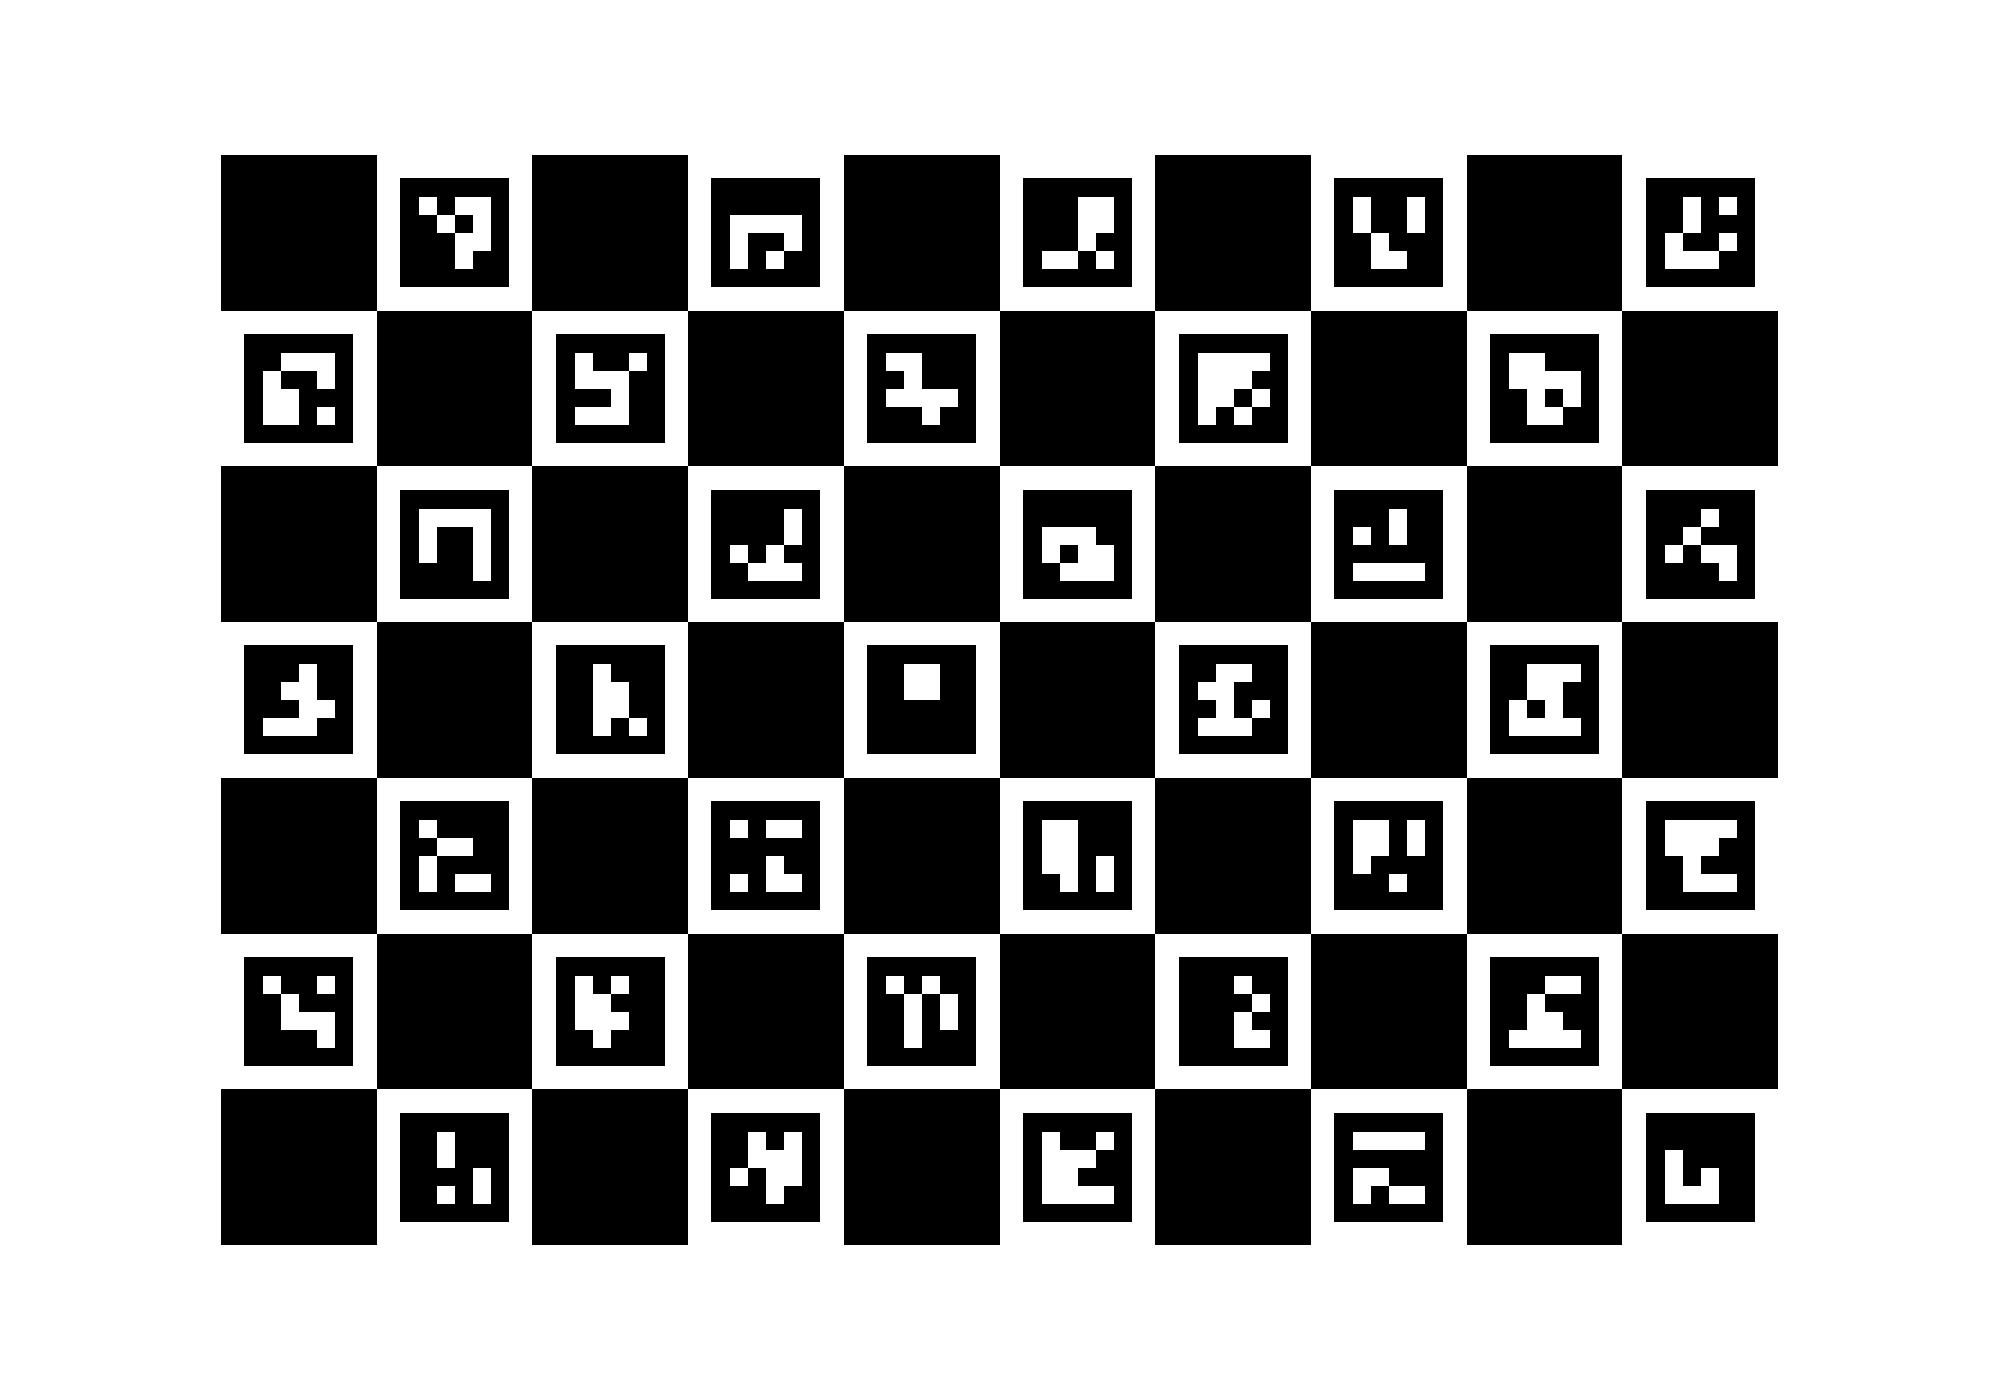
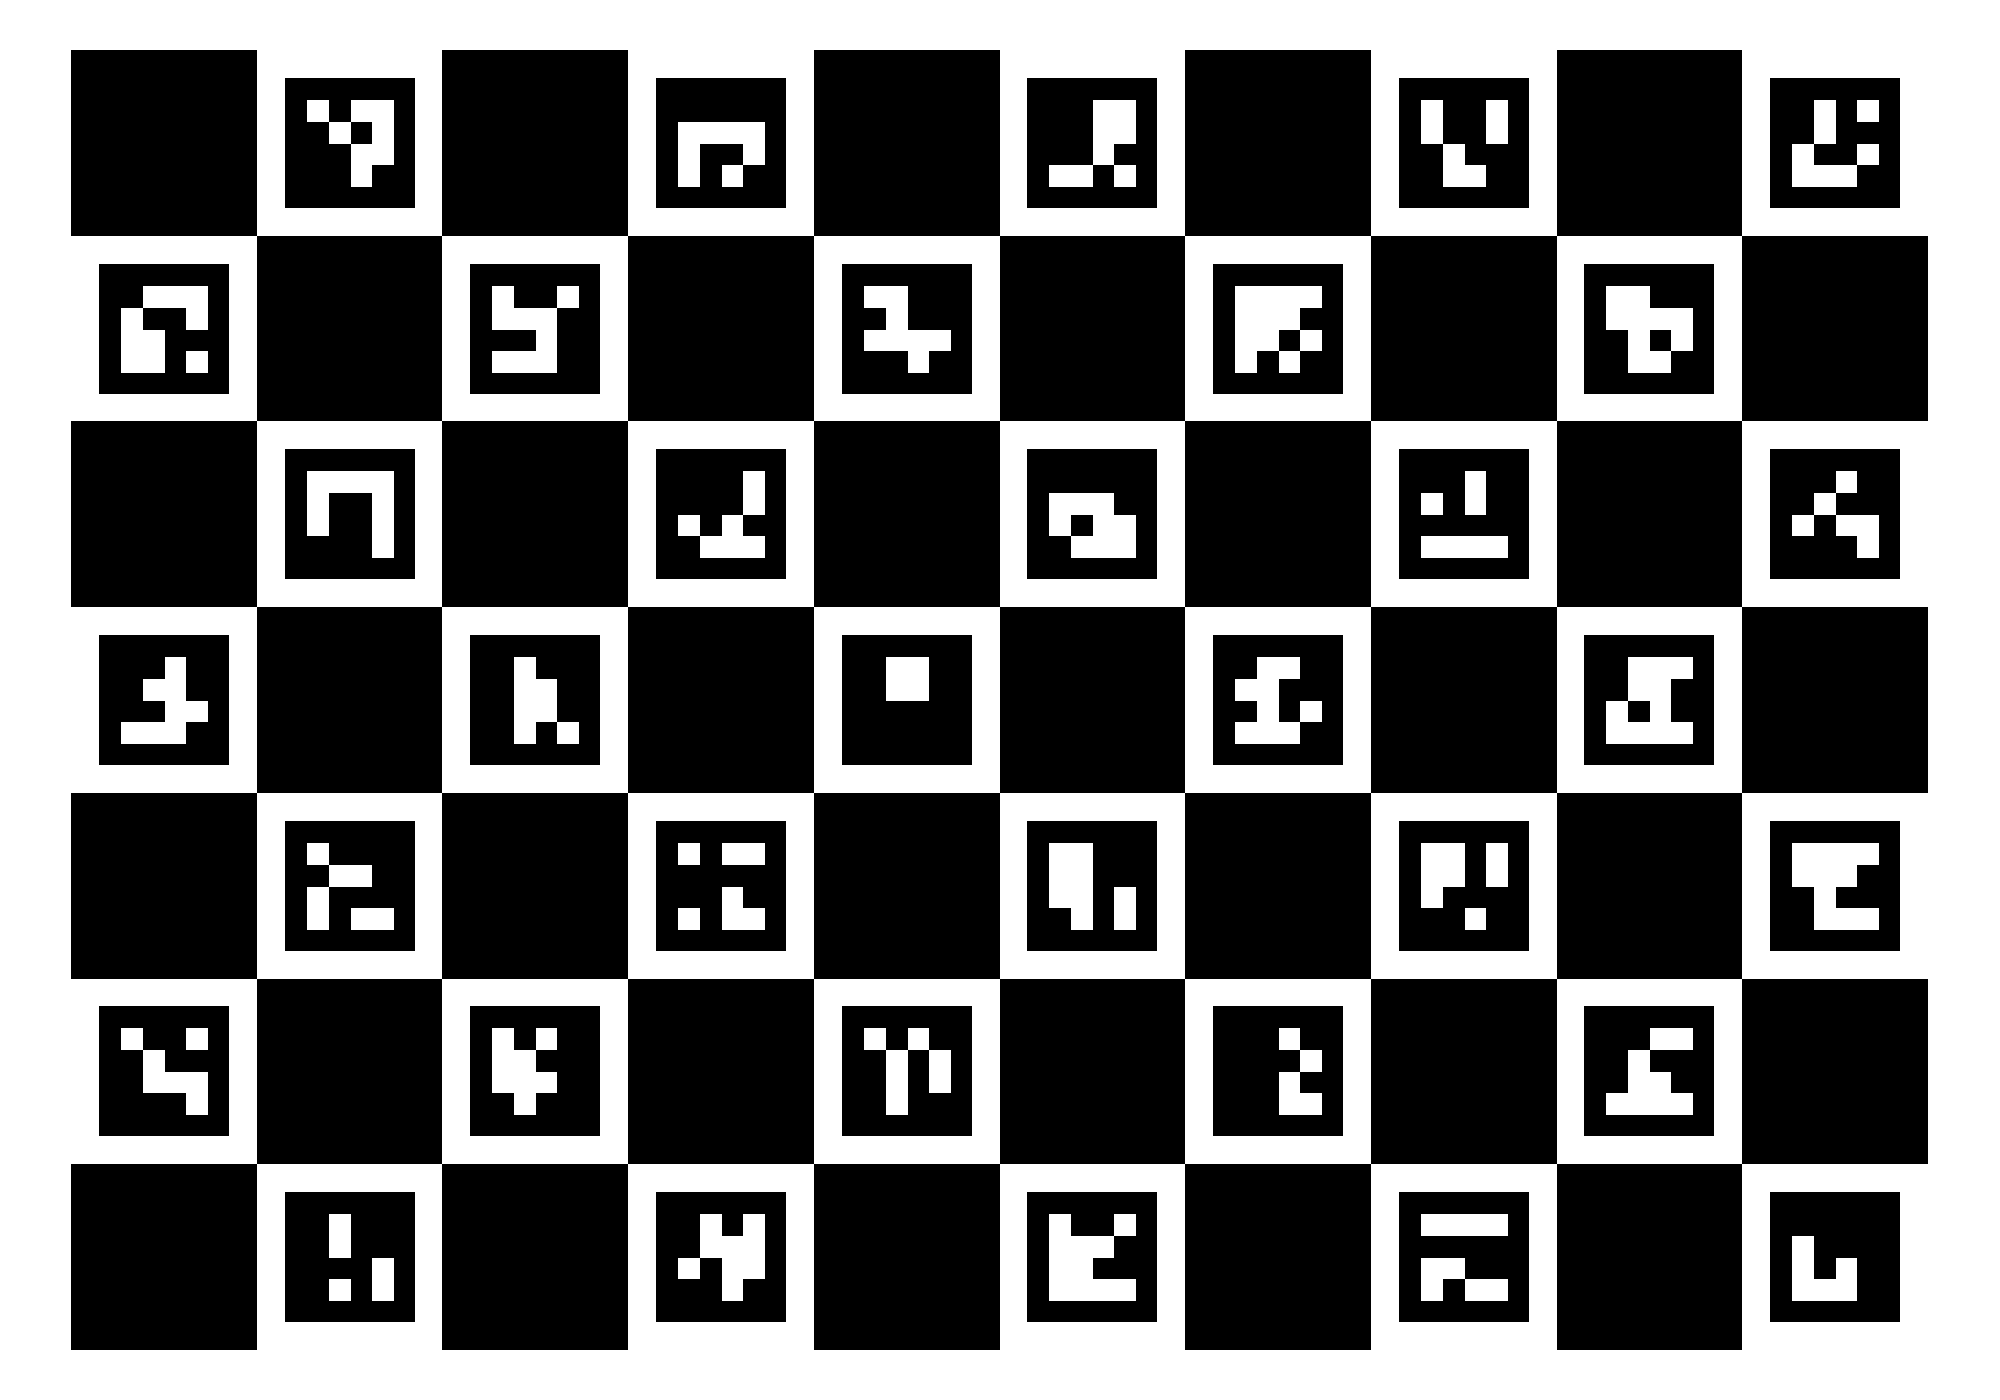
fix: narrow white margin around the calibration patterns (#74)
The pattern images had a margin of a whole square on every side. With
square cells this shrank the 8 x 4 phone pattern to about 67 % of the
image and the 10 x 7 pattern to about 78 %, so on a phone screen the
pattern was only half as wide as the screen. Live frames of a phone in
front of a reference camera showed it undetected at 30 to 40 cm. A
quarter-square margin is enough to separate the outer squares from a
dark screen background, as a new test checks; the patterns now cover
88 % and 93 % of their images.

diff --git a/tests/IntrinsicsTest.cpp b/tests/IntrinsicsTest.cpp
@@ -174,6 +174,25 @@ TEST(CharucoTarget, PhoneTargetHasLargerCells)
     EXPECT_EQ(phone.cornerCount(), 21);
 }
 
+// On a phone the image viewer shows the pattern on a black background, right next to its narrow white margin.
+TEST(CharucoFinder, FindsEveryCornerOnABlackScreenBackground)
+{
+    if(!dartpilot::geometry::charucoAvailable())
+    {
+        GTEST_SKIP() << "built without ChArUco support (OpenCV < 4.7)";
+    }
+    for(const auto& target : {dartpilot::geometry::CharucoTarget::tablet(), dartpilot::geometry::CharucoTarget::phone()})
+    {
+        const dartpilot::geometry::CharucoFinder finder(target);
+        const cv::Mat pattern = finder.patternImage(cv::Size(800, 800 * target.squares_y / target.squares_x));
+        cv::Mat screen(pattern.rows + 200, pattern.cols + 200, CV_8UC1, cv::Scalar(0));
+        pattern.copyTo(screen(cv::Rect(100, 100, pattern.cols, pattern.rows)));
+        const auto view = finder.detect(screen);
+        ASSERT_TRUE(view) << target.describe();
+        EXPECT_EQ(static_cast<int>(view->ids.size()), target.cornerCount()) << target.describe();
+    }
+}
+
 TEST(CharucoFinder, FindsEveryCornerOfThePhonePattern)
 {
     if(!dartpilot::geometry::charucoAvailable())

diff --git a/engine/geometry/src/charuco.cpp b/engine/geometry/src/charuco.cpp
@@ -105,8 +105,9 @@ std::optional<CalibrationView> CharucoFinder::detect (const cv::Mat& gray) const
 cv::Mat CharucoFinder::patternImage (const cv::Size& size_px) const
 {
     cv::Mat image;
-    // A white margin of one square helps the marker detection at the image border.
-    const int margin_px = std::min(size_px.width / (target_.squares_x + 2), size_px.height / (target_.squares_y + 2));
+    // A white margin of a quarter square separates the outer squares from a dark screen background; the detector
+    // only uses the inner corners, so a wider margin would only shrink the pattern on a small screen.
+    const int margin_px = std::min(size_px.width / target_.squares_x, size_px.height / target_.squares_y) / 4;
     impl_->board.generateImage(size_px, image, margin_px);
     return image;
 }
